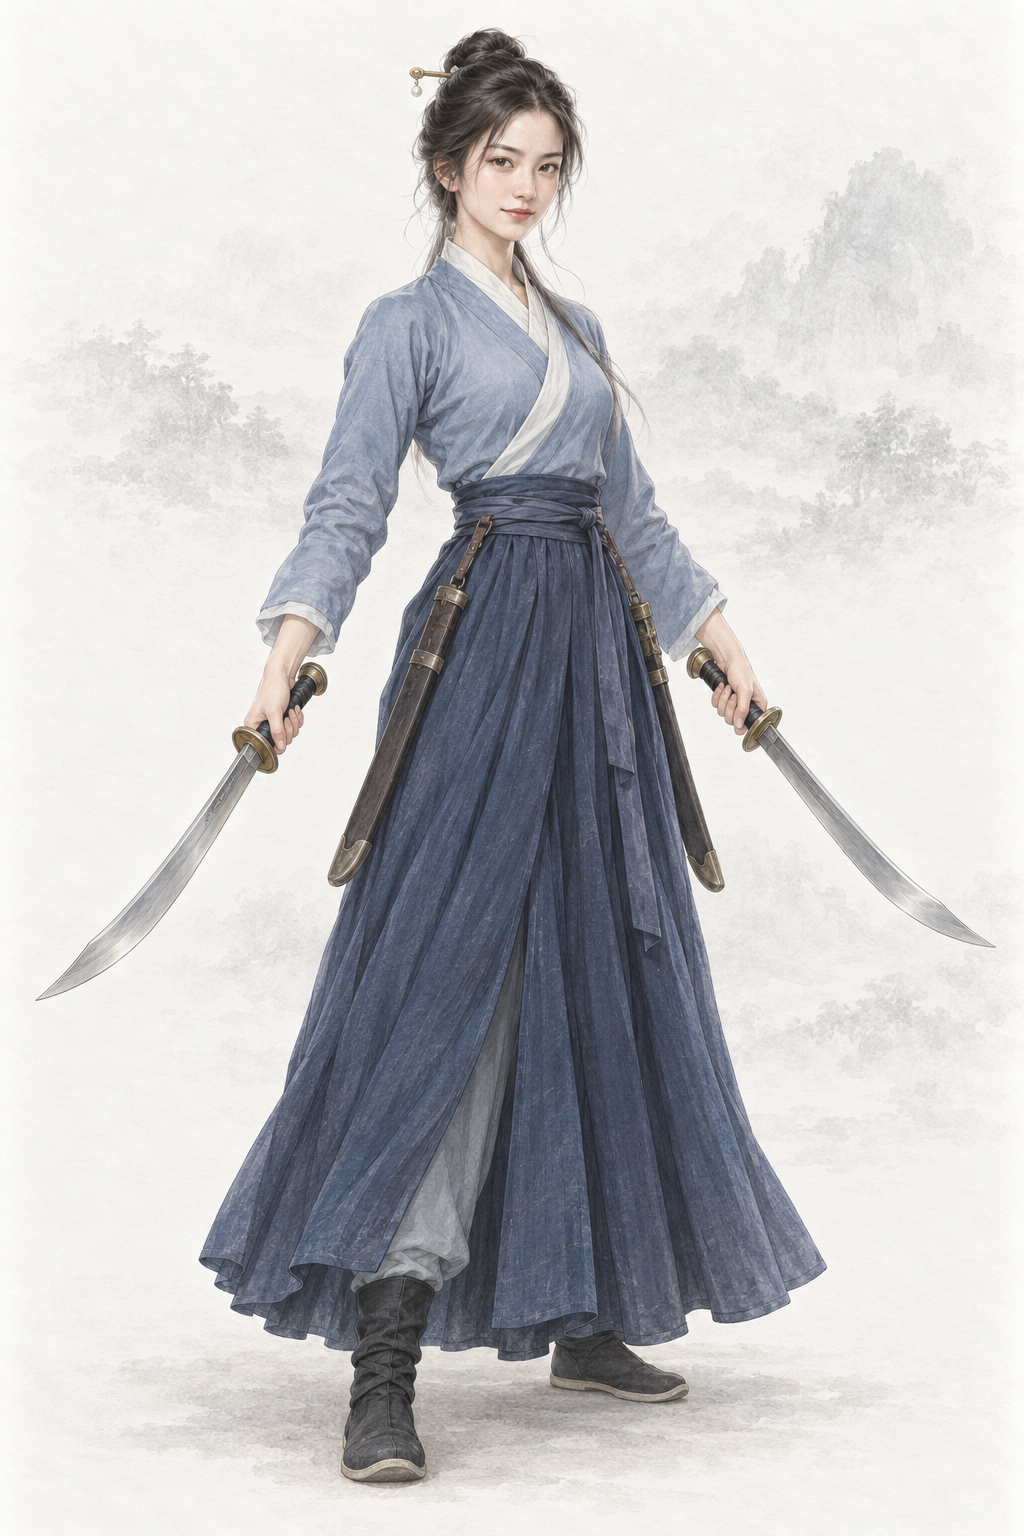
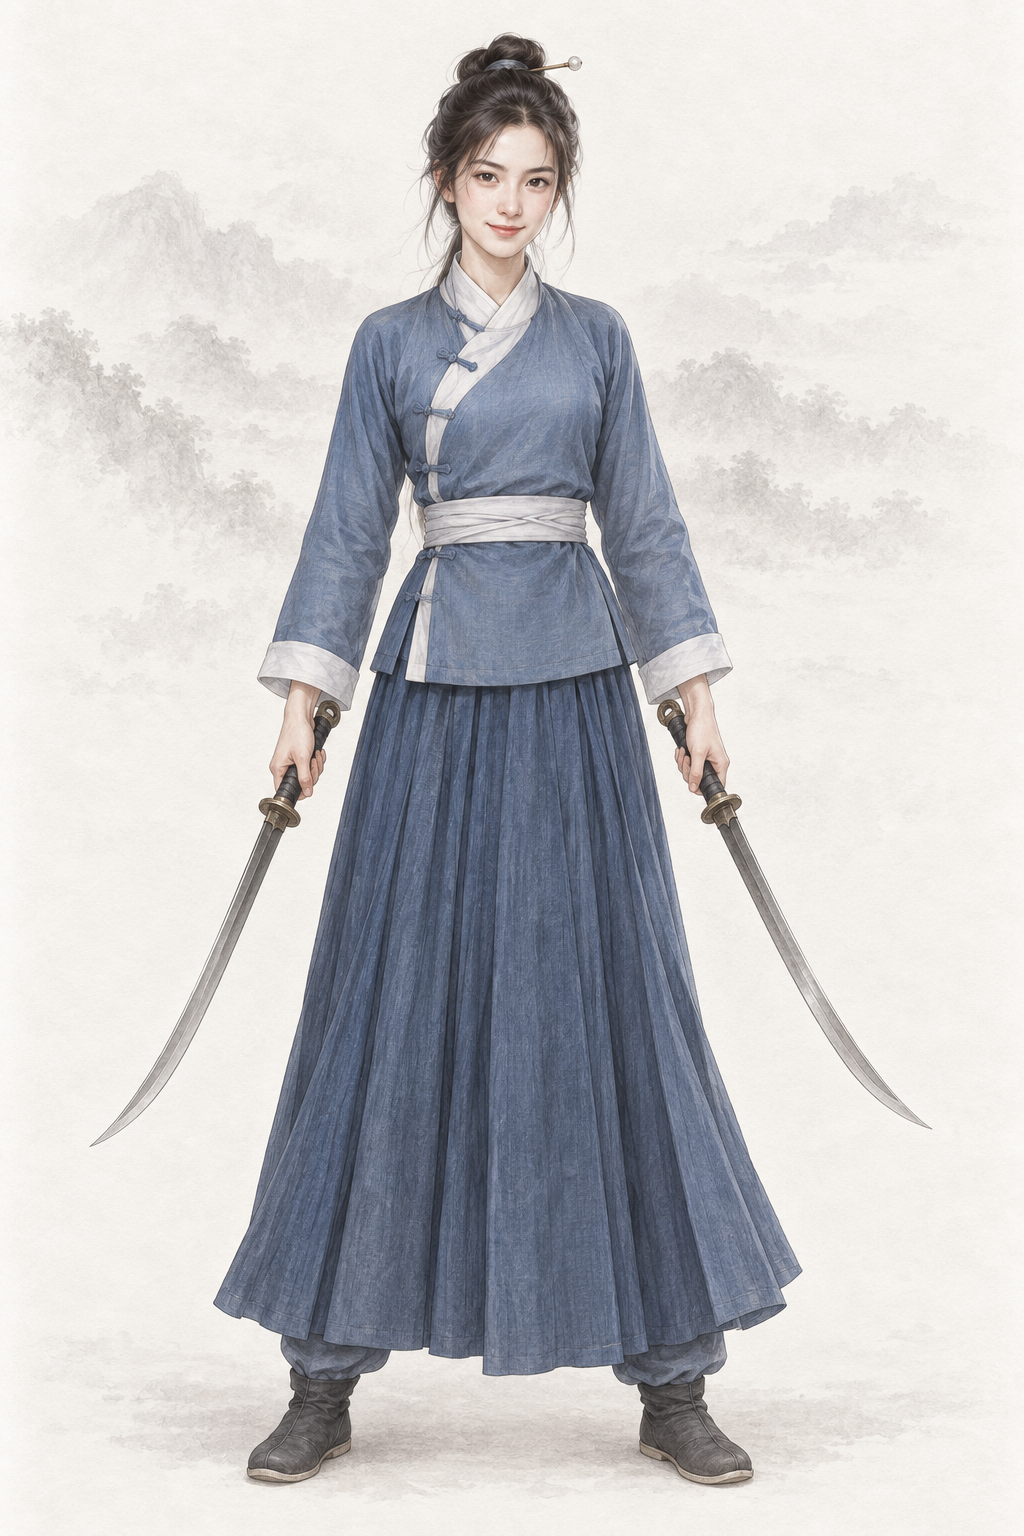
assets(character): por_npc_xiaozhonghui__ch11_youth_departure_base 萧中慧（codex · AR-32 文字 + 基线）
本人无可用剧照或可靠游戏头像，只用文字与两张同性别基线重出；提示词写回、frontmatter 加 classic_ref。

diff --git a/assets/default/prompts/characters/ch11-yuanyang/npc_xiaozhonghui.md b/assets/default/prompts/characters/ch11-yuanyang/npc_xiaozhonghui.md
@@ -15,14 +15,37 @@ references:
   use: 已实际查看的用户自生成水墨风格参考，仅取精细笔墨、衣料层染与淡雅设色；不继承人物身份、年龄脸型、白衣淡青配色、披发首饰或山水背景。
 status: redo
 redo_reason: "脸是圆脸大眼甜笑的网红模板，且与杨夫人、主角女同脸；保留蓝衣双刀设计，改成有英气、带个人特征的成年女子脸。"
+codex_prompt_rev: 2026-10-02
 reference_upload:
 - assets/default/baseline/character/female/ref_npc_wangyuyan__ch01_base01.png
-codex_prompt_rev: 2026-10-02
+- assets/default/baseline/character/female/ref_npc_xiaolongnv__ch03_base01.png
+classic_ref: "无（作者 10-02 指定鸳鸯刀用《金庸群侠传》头像；游戏里没有可靠的萧中慧头像，只用文字与基线）"
 ---
 
 # 萧中慧 · 《鸳鸯刀》（ch11）
 
 ## Gemini 提示词
+
+> 2026-10-02 AR-32 重出（8 号出图员，codex exec · image_gen）：本人没有可用的经典剧照或可靠游戏头像，只用文字与两张同性别画风基线（缩小版 JPEG，放在最后上传）；按原著与设定重写人物描写，去 AI 味、禁止幼态。上一版保留在下一节作历史。
+
+```text
+生成一张 2:3 竖幅全身人物立绘：单人、单一视角、完整全身——头顶、双手、双脚和手中器物的两端都在画面内，四周留出自然空白；人物站姿自然，身体基本朝向正面，头部端正（不歪头、不仰不俯），镜头平视。
+【参考图】随提示词上传的两张参考图都是本项目的立绘画风基线：画风、用色、光线、质感和暖浅灰纸底加淡水墨背景以它们为准；它们只管画风，不取长相、年龄、发型、服饰和姿势。人物的长相和造型完全按下面的文字来画。
+【画风】写实手绘古风人物插画，与本项目写实武侠角色立绘同一画风，像功力深厚的画师用细腻笔触画出的真实人物。手绘插画质感，不是 CG 渲染：不要过度光滑的皮肤、完美对称的五官、塑料高光、过度锐利的发丝；保留自然的笔触和细微不完美。皮肤有真实质感——细小毛孔、细纹、晒痕和自然的左右不对称，不磨皮、不油亮；头发是一缕缕自然的发丝和少量碎发；布料看得出经纬纹理、厚薄和自然垂坠的褶皱，带穿用过的轻微旧化，但完整不破烂；整体设色低饱和、沉稳；柔和的自然光从左上方照来，明暗过渡自然，不打舞台光、轮廓光或美颜柔光。不是照片，不是三维渲染，不是动漫或游戏 CG，也不是油画（没有厚涂笔触和画布纹理）。
+【背景】不透明的暖浅灰色纸底，只在远处有极淡的水墨远山和薄雾，大面积留白；人物与背景明暗分明、轮廓边缘干净完整（后续要自动抠图），水墨和纸纹只在背景里，不侵入人物和衣服；脚下只有很淡的一点接触阴影。
+【人物】萧中慧，金庸《鸳鸯刀》的女主角，晋阳萧府的千金，胆大好义、爽朗任性；独自离家去夺鸳鸯刀的那一段（清代，乾隆初年）。
+【年龄与体态】约二十岁的成年年轻女子，匀称结实、轻捷有劲，肩背舒展，是练过武的身体，约七头身。
+【经典造型】英气爽朗的侠女千金：蓝衣白领、双手各持一柄柳叶刀、发间一支金钗；明丽好看，眉眼带笑又有一股不服输的倔劲。
+【面容】明朗的鹅蛋脸，颧骨略显、下巴利落；眉毛英挺、眉尾上扬；眼睛明亮有神（自然大小），眼神爽朗、带着笑意和不服输的倔强；鼻梁挺直；嘴唇饱满、嘴角上扬，笑起来很明快；皮肤是健康的暖象牙色，双颊带一点红晕。明丽大方、有英气的美人，不是娇弱闺秀，也不是网红脸。
+【发式】乌黑的头发在脑后利落地挽成发髻，插一支缀小珍珠的金钗；鬓边几缕碎发。清代汉族女子发式，不是旗头。
+【服饰】清代汉族女子的出行装束：蓝色窄袖短袄（圆领、大襟右衽、布纽扣），月白色领缘和袖口；深蓝色长裙，裙内穿长裤，便于行走打斗；腰束月白腰带；脚穿平底软靴。衣料厚实不透，以蓝白两色的干净层次为主，不要满身绣花和长飘带。
+【道具】双手各握一柄出鞘的柳叶刀（刀身窄而微弯、刀尖上挑，单刃），刀尖斜指地面、刀身完整入画；两把刀都是普通钢刀。
+【姿态与神情】身体正面朝前，双刀垂在身体两侧，站姿英挺，笑盈盈地看着前方。
+【不要】画面里不要任何文字、题款、印章、签名、水印、边框、分格或多视图；不要第二个人；不要幼态（童颜、娃娃脸、婴儿肥、儿童或少年身材、大头小身）；不要塑料感皮肤、磨皮美颜、网红脸（尖下巴大眼高鼻的模板脸）、过度对称、浓妆、偶像式打光、蜡像感；不要照片质感、三维渲染或动漫大眼；不要歪头、斜镜头；不要多指、缺指（设定的伤残除外）、手与器物粘连或悬空；衣襟必须右衽（穿着者的左襟压在右襟上），不要左衽（设定为少数民族服制的除外），不要水平镜像；不要现代物品、发光特效、法阵或能量光。不要旗头、花盆底鞋和旗装；不要满身绣花、长飘带和过多首饰；不要娇弱闺秀的神情；不要大眼娃娃脸；不要和杨夫人、任飞燕同一张脸。
+【画风基线】随提示词上传的参考图里，最后两张是本项目的立绘画风基线：只参考它们的画风、用色、光线、质感和暖浅灰纸底加淡水墨的背景处理，整体画风必须与它们一致——精细写实的数字手绘插画，不是油画，不要厚涂笔触和画布纹理。基线图只取画风，不取长相：不要照搬基线图里人物的长相、年龄、发型、服饰和姿势。
+```
+
+## AR-31 文字版 Gemini 提示词（2026-10-02 凌晨；AR-32 重出之前，历史，不再用于出图）
 
 > 2026-10-02 Codex 人物线 2 号（AR-31）：在审核组稿上补一行「经典形象」（借鉴公认经典造型的发式、装束、配色、标志道具与气质，只写文字，不写演员名、不上传剧照），并补去 AI 化要求。本轮出图用下面第一个代码块；审核组原稿保留在其后的「审核组原稿」小节作历史。
 
